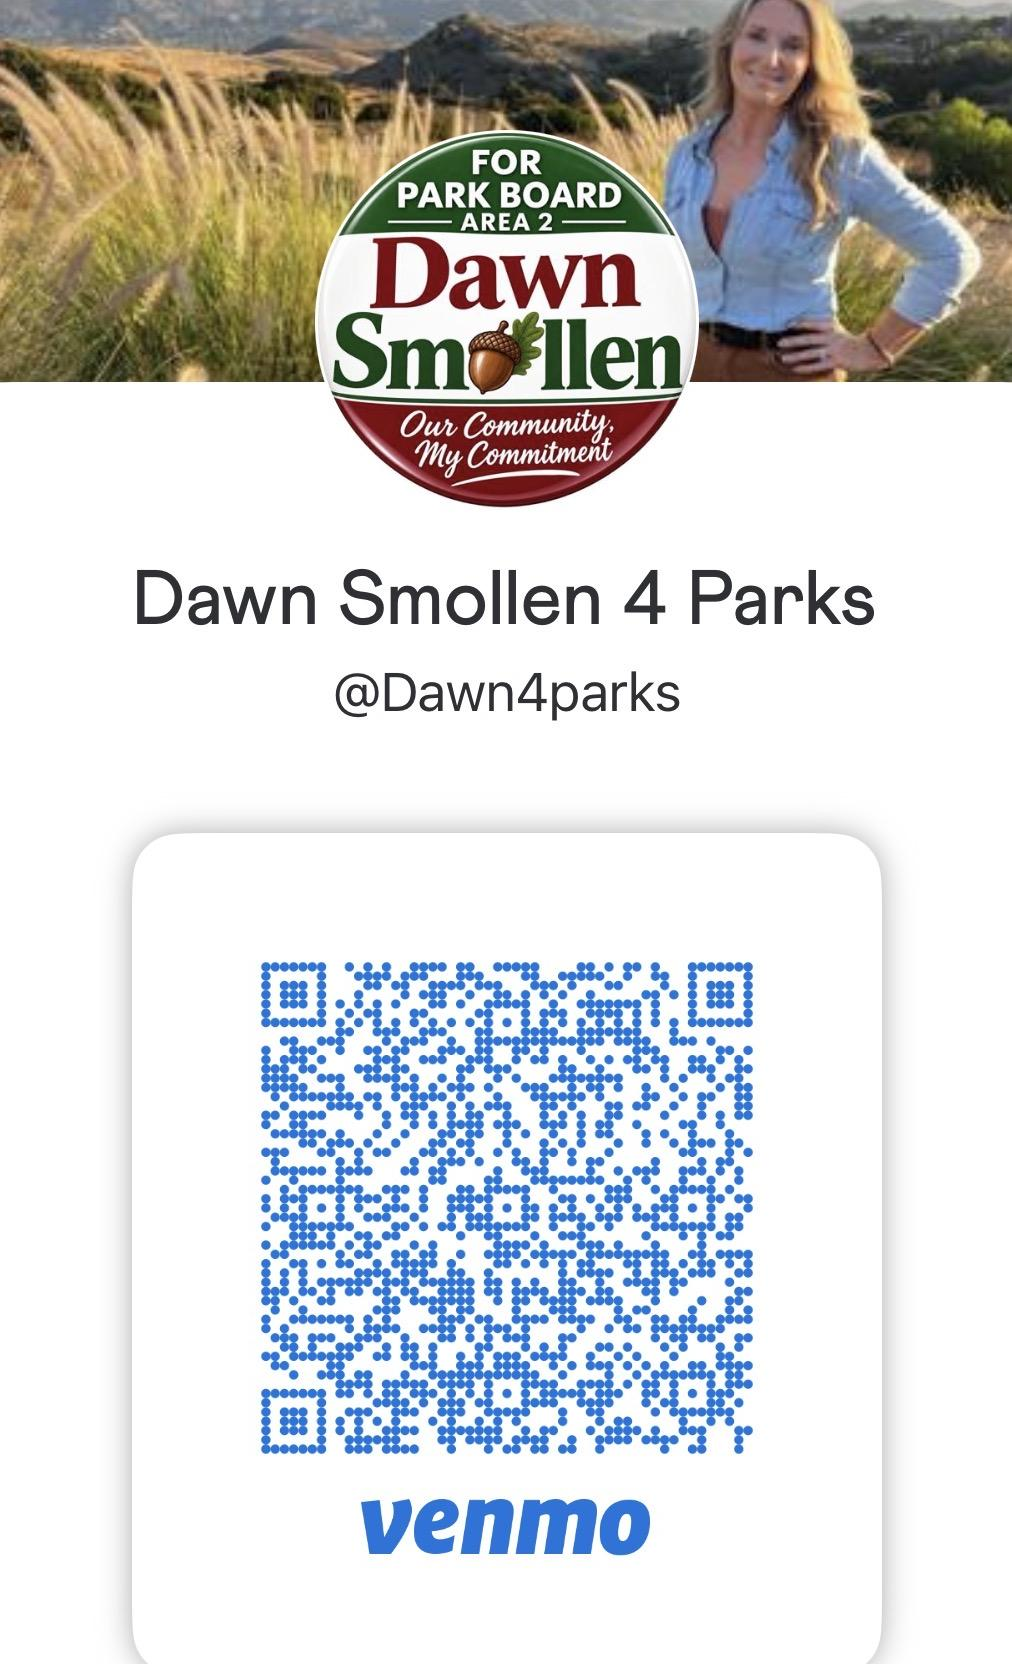
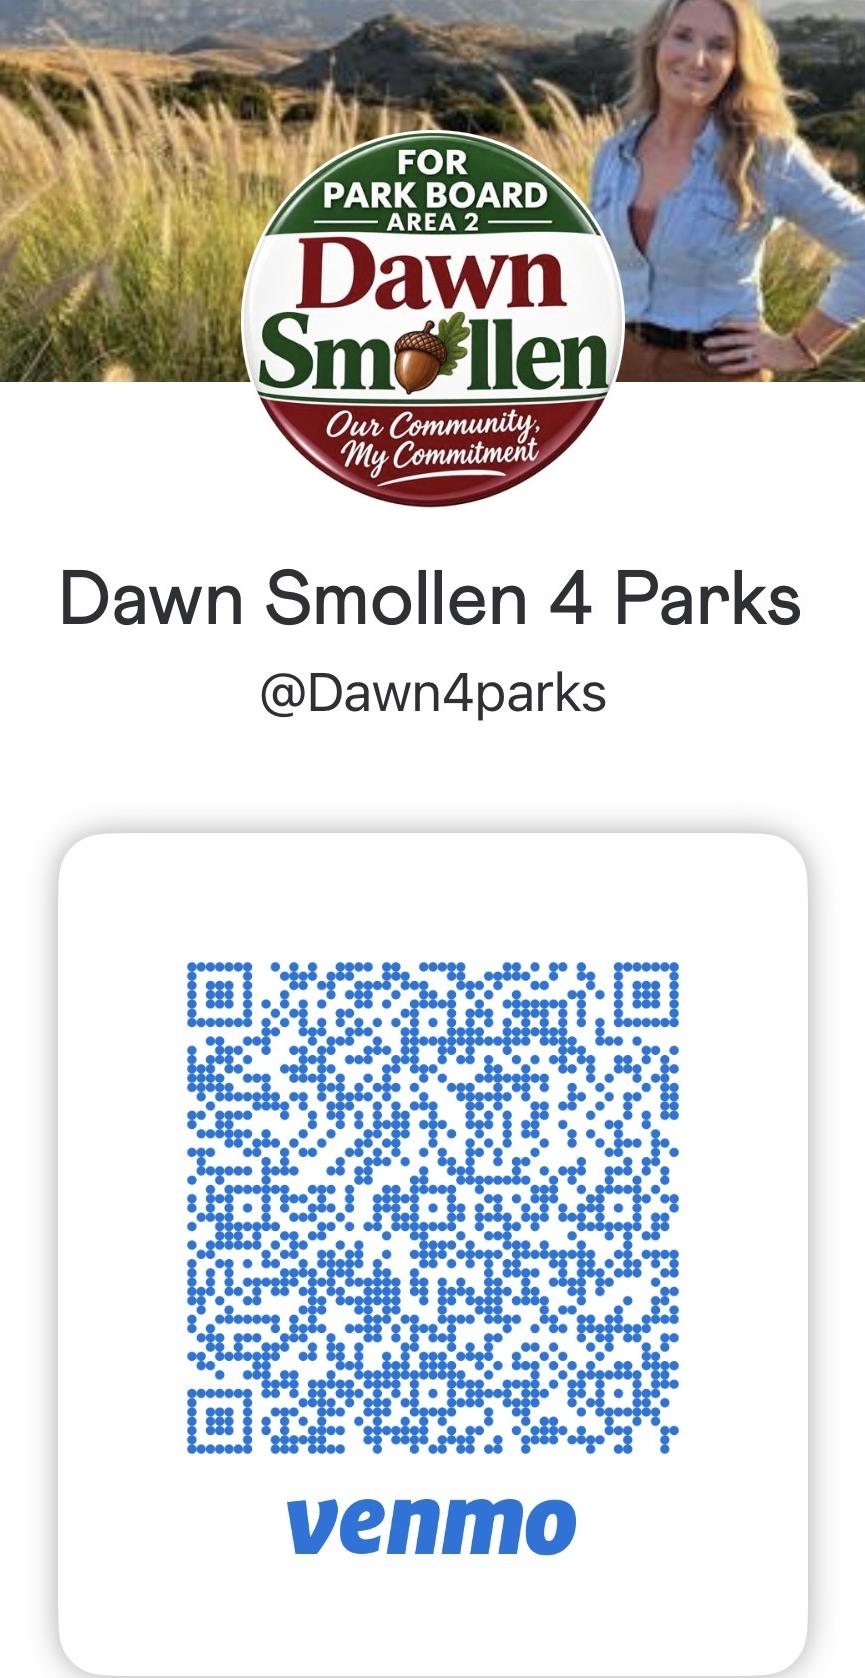
Fix Proven Local Leadership portrait crop, enlarge Venmo QR to fullwidth of card, add solid gold Volunteer button, and increase hero tagline spacing

diff --git a/styles.css b/styles.css
@@ -237,15 +237,16 @@ a:hover {
 }
 
 .btn-gold {
-  background: var(--accent-gold);
-  color: #FFFFFF;
-  box-shadow: 0 4px 14px rgba(198, 146, 20, 0.3);
+  background-color: #C69214 !important;
+  color: #FFFFFF !important;
+  box-shadow: 0 4px 14px rgba(198, 146, 20, 0.38);
 }
 
 .btn-gold:hover {
-  background: var(--accent-gold-hover);
-  color: #FFFFFF;
+  background-color: #A3770F !important;
+  color: #FFFFFF !important;
   transform: translateY(-2px);
+  box-shadow: 0 6px 18px rgba(198, 146, 20, 0.48);
 }
 
 .btn-dark {
@@ -282,7 +283,7 @@ a:hover {
 }
 
 .btn-sm {
-  padding: 9px 18px;
+  padding: 10px 20px;
   font-size: 0.88rem;
 }
 
@@ -332,9 +333,10 @@ a:hover {
   font-family: var(--font-sans);
   font-style: italic;
   font-weight: 600;
-  font-size: 1.1rem;
+  font-size: 1.15rem;
   color: var(--secondary-green);
-  margin-bottom: 42px;
+  margin-top: 18px;
+  margin-bottom: 64px;
 }
 
 .hero-actions {
@@ -477,7 +479,7 @@ a:hover {
   width: 100%;
   height: 380px;
   object-fit: cover;
-  object-position: top center !important;
+  object-position: center 15% !important;
 }
 
 .photo-caption-text {
@@ -628,7 +630,7 @@ a:hover {
   border: 1px solid var(--border-light);
   border-top: 4px solid var(--primary-maroon);
   border-radius: var(--radius-md);
-  padding: 32px 18px;
+  padding: 28px 12px;
   box-shadow: var(--shadow-card);
   display: flex;
   flex-direction: column;
@@ -648,7 +650,7 @@ a:hover {
 }
 
 .venmo-qr-link:hover {
-  transform: scale(1.025);
+  transform: scale(1.02);
 }
 
 .venmo-qr-img {
@@ -659,6 +661,7 @@ a:hover {
   border: 1px solid var(--border-light);
   box-shadow: var(--shadow-subtle);
   cursor: pointer;
+  display: block;
 }
 
 /* Active link for Venmo handle */

diff --git a/index.html b/index.html
@@ -300,13 +300,13 @@
 
             <!-- Option 3: Volunteer & Walk -->
             <div class="support-option-item">
-              <div class="option-icon" style="background: rgba(15, 23, 42, 0.1); color: #0F172A;">
+              <div class="option-icon" style="background: rgba(198, 146, 20, 0.15); color: var(--accent-gold);">
                 <svg width="20" height="20" viewBox="0 0 24 24" fill="none" stroke="currentColor" stroke-width="2" stroke-linecap="round" stroke-linejoin="round"><path d="m11 17 2 2a1 1 0 0 0 1.4 0l4.3-4.3a1 1 0 0 0 0-1.4L15 9"/><path d="m14 6-2.5-2.5a1 1 0 0 0-1.4 0L4 9.6a1 1 0 0 0 0 1.4L9 16"/><path d="M18 12h4v8h-8"/></svg>
               </div>
               <div class="option-text">
                 <h4>Volunteer & Walk Neighborhoods</h4>
                 <p>Join our volunteer team walking neighborhoods and dropping campaign information for neighbors.</p>
-                <a href="https://forms.google.com" target="_blank" rel="noopener noreferrer" class="btn btn-dark btn-sm" style="margin-top: 8px;">
+                <a href="https://forms.google.com" target="_blank" rel="noopener noreferrer" class="btn btn-gold btn-sm" style="margin-top: 8px;">
                   Fill Out Volunteer Registration Form &rarr;
                 </a>
               </div>
